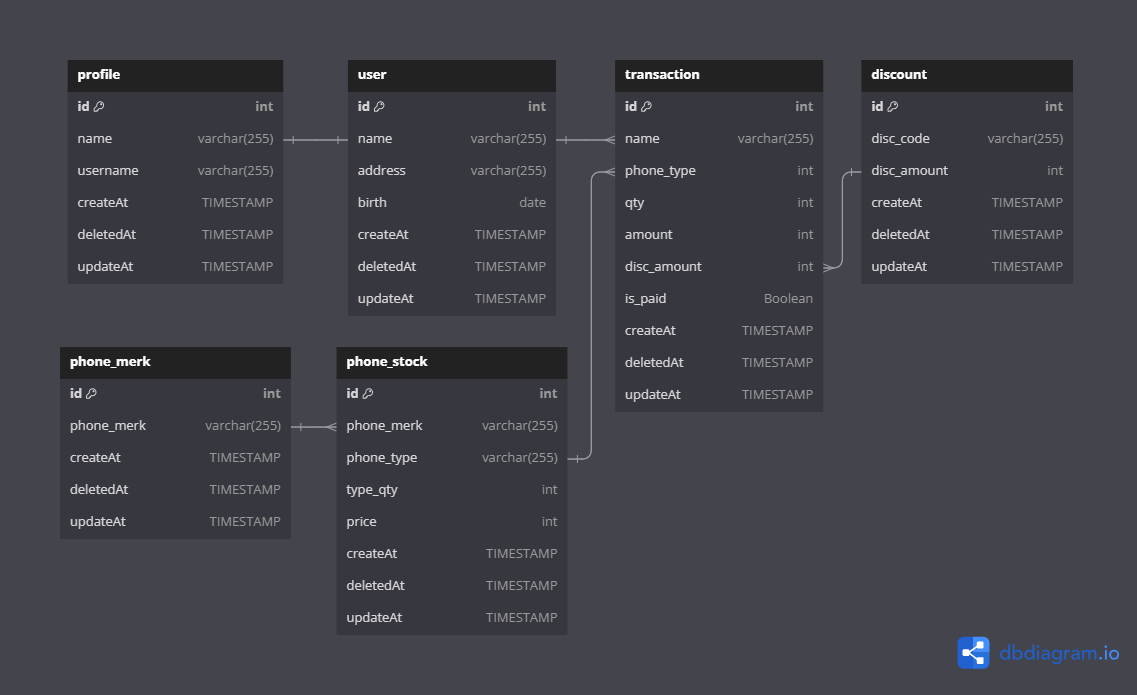
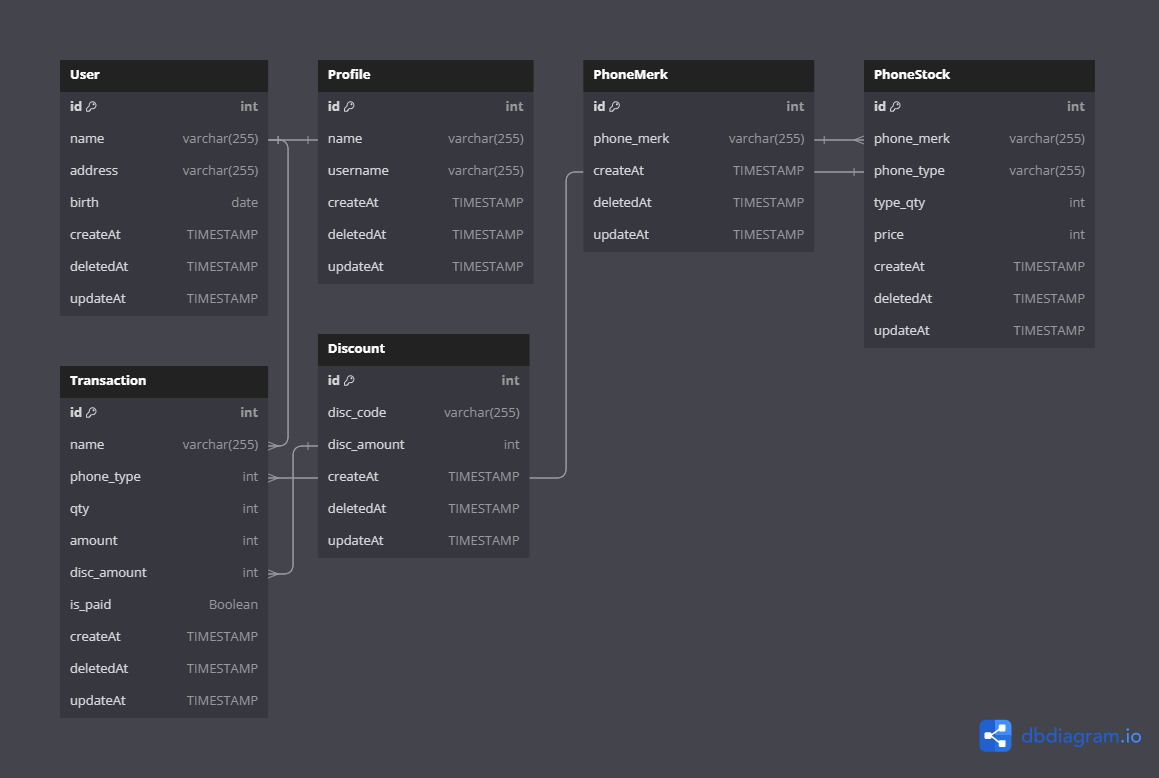
NEW ERD

diff --git a/server.js b/server.js
@@ -4,73 +4,75 @@ const prisma = new PrismaClient();
 const app = express();
 app.use(express.json());
 
+// Create PhoneMerk
+app.post('/phoneMerks', async (req, res) => {
+  try {
+    const phoneMerk = await prisma.phoneMerk.create({
+      data: req.body,
+    });
+    res.json(phoneMerk);
+  } catch (error) {
+    console.error(error);
+    res.status(500).json({ error: 'Gagal menambahkan PhoneMerk.' });
+  }
+});
 
-app.post('/users', async (req, res) => {
-    const now = new Date(); 
-    const birthDate = new Date(req.body.birth); 
-  
-    try {
-      const user = await prisma.user.create({
-        data: {
-          name: req.body.name,
-          address: req.body.address,
-          birth: birthDate, 
-          createAt: now, 
-          deletedAt: now, 
-          updateAt: now
-        },
-      });
-      res.json(user);
-    } catch (error) {
-      console.error(error);
-      res.status(500).json({ error: 'Gagal menambahkan pengguna.' });
-    }
-  });
-  
+// Read All PhoneMerks
+app.get('/phoneMerks', async (req, res) => {
+  try {
+    const phoneMerks = await prisma.phoneMerk.findMany();
+    res.json(phoneMerks);
+  } catch (error) {
+    console.error(error);
+    res.status(500).json({ error: 'Gagal mengambil data PhoneMerk.' });
+  }
+});
 
-  app.get('/users', async (req, res) => {
-    try {
-      const users = await prisma.user.findMany();
-      res.json(users);
-    } catch (error) {
-      console.error(error);
-      res.status(500).json({ error: 'Gagal mengambil data pengguna.' });
-    }
-  });
+// Read PhoneMerk by ID
+app.get('/phoneMerks/:id', async (req, res) => {
+  const { id } = req.params;
+  try {
+    const phoneMerk = await prisma.phoneMerk.findUnique({
+      where: { id: parseInt(id) },
+    });
+    res.json(phoneMerk);
+  } catch (error) {
+    console.error(error);
+    res.status(500).json({ error: 'Gagal mengambil data PhoneMerk.' });
+  }
+});
 
-  app.put('/users/:id', async (req, res) => {
-    const { id } = req.params;
-    try {
-      const user = await prisma.user.update({
-        where: { id: parseInt(id) },
-        data: {
-          name: req.body.name, 
-        },
-      });
-      res.json(user);
-    } catch (error) {
-      console.error(error);
-      res.status(500).json({ error: 'Gagal memperbarui pengguna.' });
-    }
-  });
-  
+// Update PhoneMerk by ID
+app.put('/phoneMerks/:id', async (req, res) => {
+  const { id } = req.params;
+  try {
+    const phoneMerk = await prisma.phoneMerk.update({
+      where: { id: parseInt(id) },
+      data: req.body,
+    });
+    res.json(phoneMerk);
+  } catch (error) {
+    console.error(error);
+    res.status(500).json({ error: 'Gagal memperbarui PhoneMerk.' });
+  }
+});
 
-  app.delete('/users/:id', async (req, res) => {
-    const { id } = req.params;
-    try {
-      await prisma.user.delete({
-        where: { id: parseInt(id) },
-      });
-      res.json({ message: 'Pengguna berhasil dihapus.' });
-    } catch (error) {
-      console.error(error);
-      res.status(500).json({ error: 'Gagal menghapus pengguna.' });
-    }
-  });
-  
-  const PORT = process.env.PORT || 8080;
+// Delete PhoneMerk by ID
+app.delete('/phoneMerks/:id', async (req, res) => {
+  const { id } = req.params;
+  try {
+    await prisma.phoneMerk.delete({
+      where: { id: parseInt(id) },
+    });
+    res.json({ message: 'PhoneMerk berhasil dihapus.' });
+  } catch (error) {
+    console.error(error);
+    res.status(500).json({ error: 'Gagal menghapus PhoneMerk.' });
+  }
+});
+
+const PORT = process.env.PORT || 8080;
 
 app.listen(PORT, () => {
   console.log(`Server berjalan di port ${PORT}`);
 });
-
